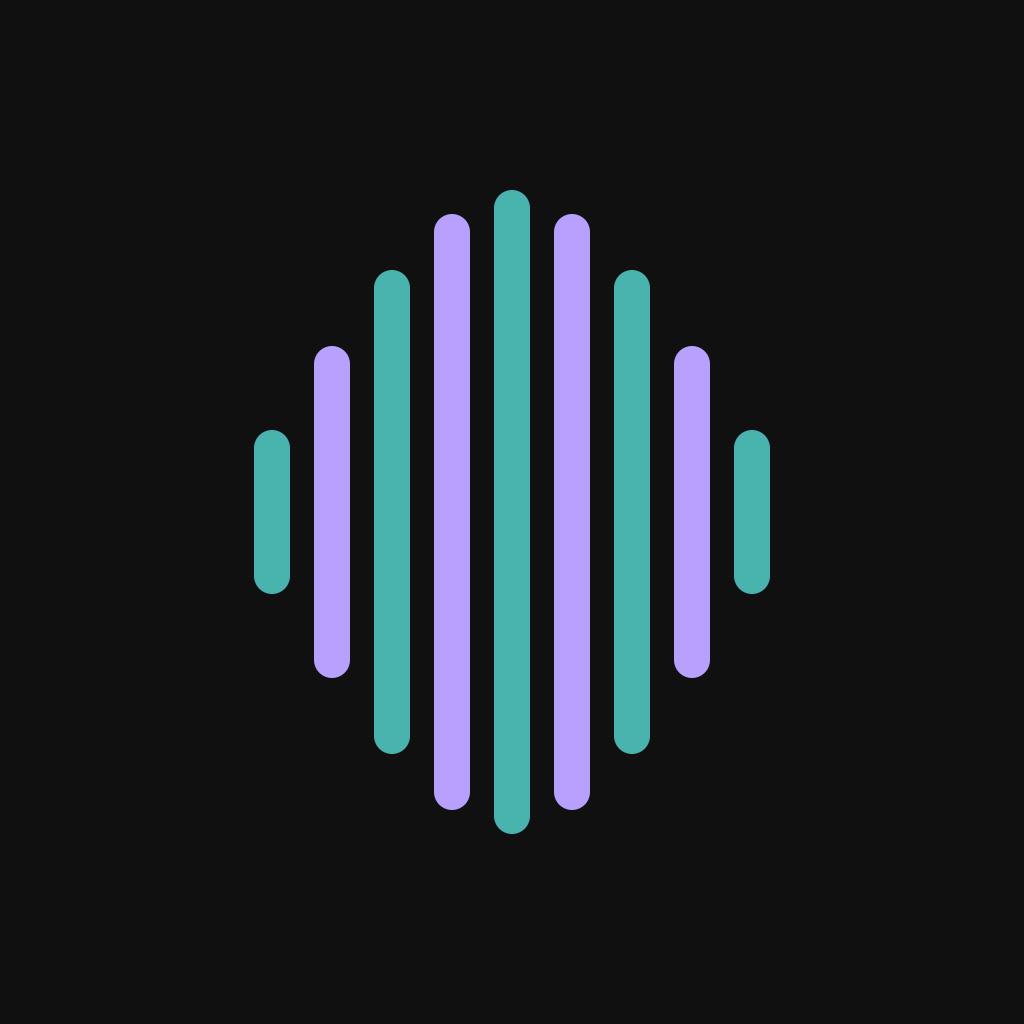
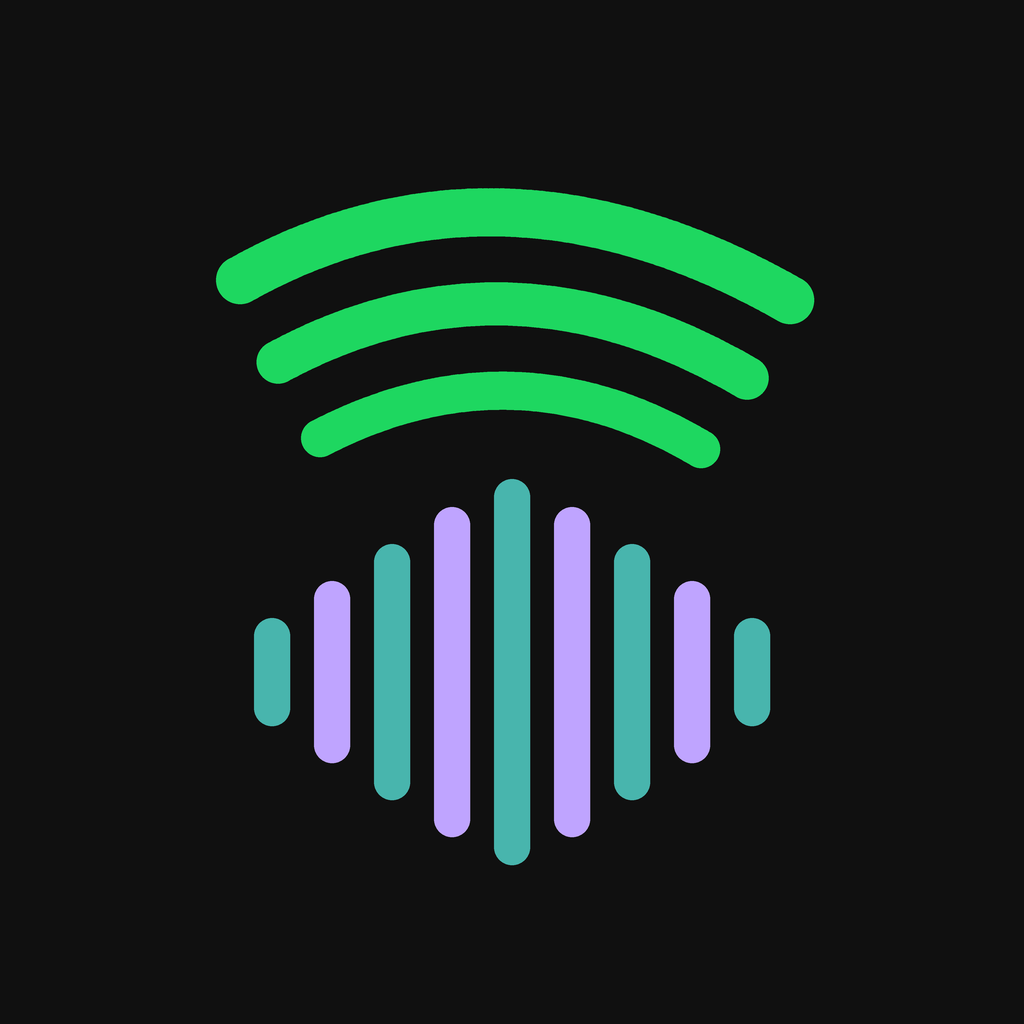
fix: retain companion accessibility and verify identified book gain

diff --git a/tools/qa/AbsorbMixUITests.swift b/tools/qa/AbsorbMixUITests.swift
@@ -8,6 +8,17 @@ final class AbsorbMixUITests: XCTestCase {
         attachment.lifetime = .keepAlways
         add(attachment)
     }
+    func wait(_ predicate: @escaping () -> Bool, timeout: TimeInterval = 15) {
+        let expectation = XCTNSPredicateExpectation(predicate: NSPredicate { _, _ in predicate() }, object: nil)
+        XCTAssertEqual(XCTWaiter.wait(for: [expectation], timeout: timeout), .completed, app.debugDescription)
+    }
+    func show(_ element: XCUIElement) {
+        for _ in 0..<4 {
+            if element.exists && element.isHittable { return }
+            app.swipeUp()
+        }
+        wait { element.exists && element.isHittable }
+    }
     func testCompanionControlsAndScreenshots() throws {
         continueAfterFailure = false
         app.launch()
@@ -26,38 +37,42 @@ final class AbsorbMixUITests: XCTestCase {
         XCTAssertTrue(headline.waitForExistence(timeout: 20), app.debugDescription)
         capture("02-companion-off-top")
         let overlap = app.switches.firstMatch
-        XCTAssertTrue(overlap.waitForExistence(timeout: 10))
+        wait { overlap.exists && overlap.isEnabled && overlap.isHittable }
         overlap.tap()
         let enabled = app.descendants(matching: .any).matching(NSPredicate(format: "label CONTAINS %@", "On • Spotify can keep playing with the book")).firstMatch
         XCTAssertTrue(enabled.waitForExistence(timeout: 15), app.debugDescription)
         capture("03-companion-on-top")
-        let gain = app.descendants(matching: .any).matching(NSPredicate(format: "value == %@", "100%")).firstMatch
-        XCTAssertTrue(gain.waitForExistence(timeout: 10), app.debugDescription)
-        // Flutter adjustable semantics can be Other, not UISlider. Drag the real thumb.
+        let gain = app.descendants(matching: .any).matching(identifier: "companion.bookGain").firstMatch
+        show(gain)
+        XCTAssertEqual(gain.value as? String, "100%")
         let start = gain.coordinate(withNormalizedOffset: CGVector(dx: 0.5, dy: 0.5))
-        let target = app.coordinate(withNormalizedOffset: CGVector(dx: 0.4, dy: start.screenPoint.y / app.frame.height))
+        // Derive the gesture from the identified audiobook control, never from
+        // an arbitrary percentage-valued element (Spotify has one too).
+        let target = start.withOffset(CGVector(dx: -120, dy: 0))
         start.press(forDuration: 0.1, thenDragTo: target)
-        let adjusted = app.descendants(matching: .any).matching(NSPredicate(format: "value ENDSWITH %@ AND value != %@", "%", "100%")).firstMatch
-        XCTAssertTrue(adjusted.waitForExistence(timeout: 10), app.debugDescription)
-        let savedGain = adjusted.value as? String
-        XCTAssertNotNil(savedGain)
+        wait { (gain.value as? String)?.hasSuffix("%") == true && gain.value as? String != "100%" }
+        let savedGain = try XCTUnwrap(gain.value as? String)
         capture("04-book-gain-adjusted")
-        app.swipeUp()
         let unavailable = app.staticTexts["Spotify gain • unavailable (not a live level)"]
+        show(unavailable)
         XCTAssertTrue(unavailable.waitForExistence(timeout: 10), app.debugDescription)
         capture("05-spotify-manual-limits")
-        app.swipeUp()
+        show(app.staticTexts.matching(NSPredicate(format: "label CONTAINS %@", "Sleep timer controls the book only")).firstMatch)
         capture("06-manual-test-checklist")
         XCUIDevice.shared.orientation = .landscapeLeft
+        wait { self.app.frame.width > self.app.frame.height }
         capture("07-landscape")
         XCUIDevice.shared.orientation = .portrait
+        wait { self.app.frame.height > self.app.frame.width }
         app.terminate()
         app.launch()
         XCTAssertTrue(entry.waitForExistence(timeout: 30))
         entry.tap()
+        if !enabled.waitForExistence(timeout: 5) && entry.exists { entry.tap() }
         XCTAssertTrue(enabled.waitForExistence(timeout: 15), app.debugDescription)
-        let restored = app.descendants(matching: .any).matching(NSPredicate(format: "value == %@", savedGain ?? "invalid")).firstMatch
-        XCTAssertTrue(restored.waitForExistence(timeout: 10), app.debugDescription)
+        show(gain)
+        wait { gain.value as? String == savedGain }
+        XCTAssertEqual(gain.value as? String, savedGain)
         capture("08-native-settings-restored-after-relaunch")
     }
 }

diff --git a/lib/screens/companion_screen.dart b/lib/screens/companion_screen.dart
@@ -1,4 +1,5 @@
 import 'package:flutter/material.dart';
+import 'package:flutter/semantics.dart';
 import 'package:url_launcher/url_launcher.dart';
 import '../services/companion_controller.dart';
 
@@ -17,6 +18,7 @@ class CompanionScreen extends StatefulWidget {
 
 class _CompanionScreenState extends State<CompanionScreen> with WidgetsBindingObserver {
   late final CompanionController controller;
+  late final SemanticsHandle _semantics;
   bool _ready = false;
   bool _busy = false;
   double? _draftGain;
@@ -24,6 +26,9 @@ class _CompanionScreenState extends State<CompanionScreen> with WidgetsBindingOb
   @override
   void initState() {
     super.initState();
+    // Keep controls accessible if platform automation drops its semantics
+    // subscription while scrolling; release this lease with the screen.
+    _semantics = WidgetsBinding.instance.ensureSemantics();
     WidgetsBinding.instance.addObserver(this);
     controller = widget.controller ?? CompanionController.instance;
     _load();
@@ -43,6 +48,7 @@ class _CompanionScreenState extends State<CompanionScreen> with WidgetsBindingOb
   @override
   void dispose() {
     WidgetsBinding.instance.removeObserver(this);
+    _semantics.dispose();
     super.dispose();
   }
   Future<void> _change(Future<void> Function() action) async {
@@ -90,7 +96,7 @@ class _CompanionScreenState extends State<CompanionScreen> with WidgetsBindingOb
           const Text('Audiobook • book-only gain', style: TextStyle(fontSize: 18, fontWeight: FontWeight.w600)),
           const SizedBox(height: 8),
           const Text('Use the existing player to choose and play your book. These controls change only the native audiobook player, including after switching books.'),
-          Slider(
+          Semantics(identifier: 'companion.bookGain', child: Slider(
             key: const Key('bookGain'),
             value: _draftGain ?? controller.bookGain,
             label: '${((_draftGain ?? controller.bookGain) * 100).round()}%',
@@ -100,7 +106,7 @@ class _CompanionScreenState extends State<CompanionScreen> with WidgetsBindingOb
               await _change(() => controller.setBookGain(value));
               if (mounted) setState(() => _draftGain = null);
             } : null,
-          ),
+          )),
           SwitchListTile(key: const Key('bookMuted'), contentPadding: EdgeInsets.zero,
             title: const Text('Mute book only'), value: controller.bookMuted,
             onChanged: canEdit ? (value) => _change(() => controller.setBookMuted(value)) : null),

diff --git a/test/companion_screen_test.dart b/test/companion_screen_test.dart
@@ -17,6 +17,21 @@ void main() {
   });
   tearDown(() => TestDefaultBinaryMessengerBinding.instance.defaultBinaryMessenger.setMockMethodCallHandler(channel, null));
 
+  testWidgets('companion keeps semantics active for native automation and releases it', (tester) async {
+    final baseline = tester.binding.debugOutstandingSemanticsHandles;
+    await tester.pumpWidget(MaterialApp(home: CompanionScreen(controller: CompanionController(supported: true))));
+    await tester.pumpAndSettle();
+    expect(tester.binding.debugOutstandingSemanticsHandles, baseline + 1);
+    await tester.ensureVisible(find.byKey(const Key('bookGain')));
+    expect(tester.getSemantics(find.byKey(const Key('bookGain'))).identifier, 'companion.bookGain');
+    await tester.scrollUntilVisible(find.text('Spotify gain • unavailable (not a live level)'), 200);
+    await tester.pumpAndSettle();
+    expect(tester.binding.debugOutstandingSemanticsHandles, baseline + 1);
+    await tester.pumpWidget(const SizedBox.shrink());
+    await tester.pumpAndSettle();
+    expect(tester.binding.debugOutstandingSemanticsHandles, baseline);
+  });
+
   testWidgets('opt-in and book mute are native-backed controls', (tester) async {
     final controller = CompanionController(supported: true);
     await tester.pumpWidget(MaterialApp(home: CompanionScreen(controller: controller)));

diff --git a/tools/generate_mix_icon.py b/tools/generate_mix_icon.py
@@ -1,0 +1,44 @@
+"""Generate the Spotify-inspired broadcast arcs / Absorb waveform icon.
+
+Requires Pillow. This independent app is not endorsed by Spotify.
+Run from anywhere; existing iOS asset dimensions are preserved.
+"""
+from pathlib import Path
+from PIL import Image, ImageDraw
+
+ROOT = Path(__file__).resolve().parents[1]
+SCALE = 4
+canvas = Image.new('RGB', (1024 * SCALE, 1024 * SCALE), '#101010')
+draw = ImageDraw.Draw(canvas)
+
+def curve(start, control, end, width, color):
+    points = []
+    for i in range(101):
+        t = i / 100
+        points.append(tuple(round(((1-t)**2 * start[j] + 2*(1-t)*t * control[j] + t*t * end[j]) * SCALE) for j in (0, 1)))
+    draw.line(points, fill=color, width=width * SCALE)
+    r = width * SCALE / 2
+    for x, y in points:
+        draw.ellipse((x-r, y-r, x+r, y+r), fill=color)
+
+for a, b, c, width in [
+    ((240, 280), (500, 135), (790, 300), 48),
+    ((278, 362), (508, 238), (747, 378), 43),
+    ((320, 438), (514, 338), (701, 449), 38),
+]:
+    curve(a, b, c, width, '#1ED760')
+
+for index, height in enumerate([108, 182, 256, 330, 386, 330, 256, 182, 108]):
+    x = 272 + index * 60
+    y = 672
+    color = '#BFA4FF' if index % 2 else '#48B5AD'
+    draw.rounded_rectangle(tuple(round(v*SCALE) for v in (x-18, y-height/2, x+18, y+height/2)), radius=18*SCALE, fill=color)
+
+icon = canvas.resize((1024, 1024), Image.Resampling.LANCZOS)
+for relative in ['icon.png', 'assets/icon/app_icon.png']:
+    icon.save(ROOT / relative)
+for path in (ROOT / 'ios/Runner/Assets.xcassets/AppIcon.appiconset').glob('*.png'):
+    with Image.open(path) as existing:
+        size = existing.size
+    icon.resize(size, Image.Resampling.LANCZOS).save(path)
+print('Generated master and iOS app icons; original Absorb repository untouched.')

diff --git a/README.md b/README.md
@@ -25,7 +25,7 @@ The release IPA is unsigned for SideStore/AltStore to re-sign on install. It is 
 
 Flutter is pinned to 3.44.6. Run `flutter pub get`, `flutter analyze --no-fatal-infos --no-fatal-warnings lib test`, and `flutter test test` before `flutter build ios --release --no-codesign` on macOS. The fork workflow produces an identity-validated IPA and exact-source manifest but does **not** automatically publish it. Publishing requires checking that artifact and preserving other central-source app entries.
 
-The release icon is an original turquoise/lavender waveform, not a Spotify co-brand. Spotify has not endorsed this application. Upstream license and credits are retained below.
+The release icon combines Spotify-inspired green broadcast curves with Absorb's turquoise/lavender waveform. It is an independent experimental fork, not an official Spotify integration or endorsed co-brand. Upstream license and credits are retained below.
 
 ---
 
